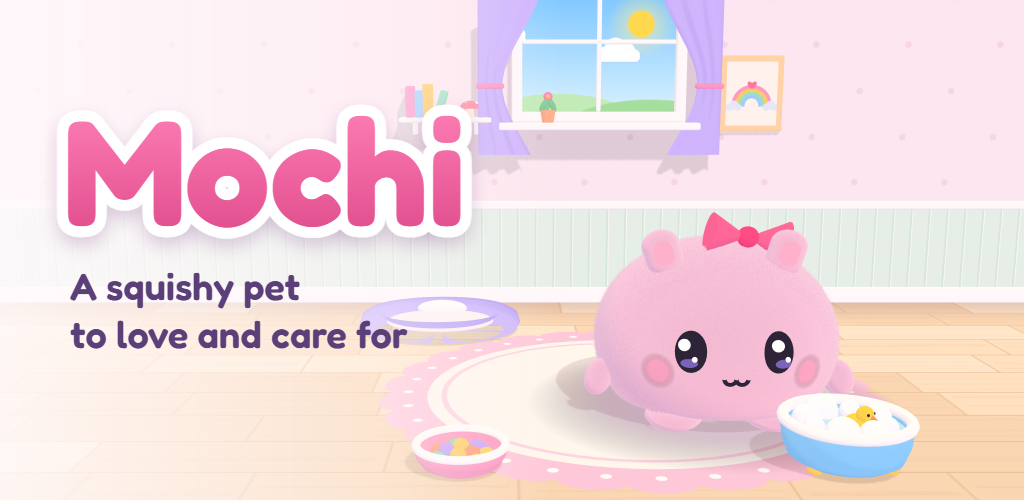
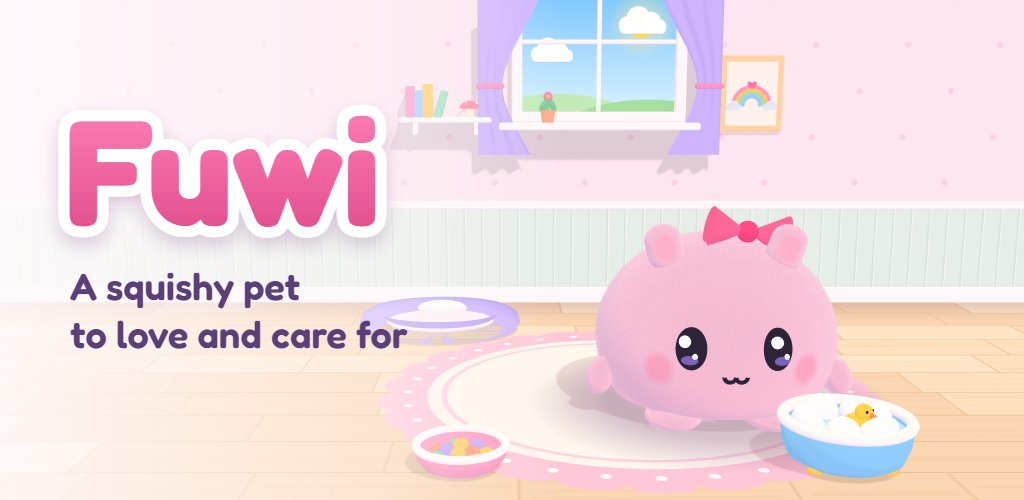
Web de Fuwi en fuwiapp.com
El personaje pasa a llamarse Fuwi («Fuwi es un mochi»): textos, título,
imágenes para compartir y direcciones en español e inglés.

diff --git a/en/index.html b/en/index.html
@@ -3,22 +3,23 @@
 <head>
   <meta charset="utf-8">
   <meta name="viewport" content="width=device-width, initial-scale=1">
-  <title>Mochi: the virtual pet with no ads</title>
-  <meta name="description" content="Mochi is a 3D virtual pet for little ones: care for it, cuddle it and talk to it. No ads, no purchases and no internet needed. Try it before anyone else on Android.">
+  <title>Fuwi: the virtual pet with no ads</title>
+  <meta name="description" content="Fuwi is a mochi, a 3D virtual pet for little ones: care for it, cuddle it and talk to it. No ads, no purchases and no internet needed. Try it before anyone else on Android.">
   <meta name="theme-color" content="#ffe4ef">
   <link rel="icon" type="image/png" href="../img/favicon.png">
-  <link rel="alternate" hreflang="es" href="https://akrogs.github.io/mochi-web/">
-  <link rel="alternate" hreflang="en" href="https://akrogs.github.io/mochi-web/en/">
+  <link rel="alternate" hreflang="es" href="https://fuwiapp.com/">
+  <link rel="alternate" hreflang="en" href="https://fuwiapp.com/en/">
   <meta property="og:type" content="website">
-  <meta property="og:title" content="Mochi: the virtual pet with no ads">
+  <meta property="og:title" content="Fuwi: the virtual pet with no ads">
   <meta property="og:description" content="Care for it, cuddle it and talk to it. Try it before anyone else on Android.">
-  <meta property="og:url" content="https://akrogs.github.io/mochi-web/en/">
-  <meta property="og:image" content="https://akrogs.github.io/mochi-web/img/compartir-en.png">
+  <meta property="og:url" content="https://fuwiapp.com/en/">
+  <link rel="canonical" href="https://fuwiapp.com/en/">
+  <meta property="og:image" content="https://fuwiapp.com/img/compartir-en.png">
   <link rel="stylesheet" href="../style.css">
 </head>
 <body>
   <header class="wrap top">
-    <a class="brand" href="./"><img src="../img/icono.png" alt="" width="48" height="48">Mochi</a>
+    <a class="brand" href="./"><img src="../img/icono.png" alt="" width="48" height="48">Fuwi</a>
     <a class="lang" href="../" lang="es" hreflang="es">Español</a>
   </header>
 
@@ -27,10 +28,10 @@
       <div>
         <p class="tag">In testing · Android only</p>
         <h1>The virtual pet with no ads</h1>
-        <p class="lead">Mochi is a 3D pet for little ones. Care for it, cuddle it and talk to it, with no purchases and no internet needed.</p>
-        <a class="button" href="#try">Try Mochi before anyone else</a>
+        <p class="lead">Fuwi is a mochi: a 3D pet for little ones. Care for it, cuddle it and talk to it, with no purchases and no internet needed.</p>
+        <a class="button" href="#try">Try Fuwi before anyone else</a>
       </div>
-      <video class="clip" src="../video/mochi-en.mp4" poster="../img/poster.webp" width="330" height="587" autoplay muted loop playsinline controls aria-label="Video of Mochi: when stroked it closes its eyes and hearts appear"></video>
+      <video class="clip" src="../video/mochi-en.mp4" poster="../img/poster.webp" width="330" height="587" autoplay muted loop playsinline controls aria-label="Video of Fuwi: when stroked it closes its eyes and hearts appear"></video>
     </div>
 
     <section class="wrap">
@@ -64,23 +65,23 @@
     </section>
 
     <section class="wrap">
-      <h2>Meet Mochi</h2>
+      <h2>Meet Fuwi</h2>
       <div class="gallery">
-        <img src="../img/en-1.webp" alt="Mochi with hearts as it is stroked" width="360" height="640">
-        <img src="../img/en-2.webp" alt="Mochi listening with the microphone on" width="360" height="640">
-        <img src="../img/en-3.webp" alt="Mochi playing with bubbles" width="360" height="640">
+        <img src="../img/en-1.webp" alt="Fuwi with hearts as it is stroked" width="360" height="640">
+        <img src="../img/en-2.webp" alt="Fuwi listening with the microphone on" width="360" height="640">
+        <img src="../img/en-3.webp" alt="Fuwi playing with bubbles" width="360" height="640">
         <img src="../img/en-4.webp" alt="Play summary in the grown-ups' area" width="360" height="640">
       </div>
     </section>
 
     <section class="wrap" id="try">
-      <h2>Try Mochi before anyone else</h2>
-      <p class="intro">Mochi is still in testing and we're looking for families who'd like to try it. You need an Android phone or tablet and a Google account belonging to an adult. There's no iPhone version yet.</p>
+      <h2>Try Fuwi before anyone else</h2>
+      <p class="intro">Fuwi is still in testing and we're looking for families who'd like to try it. You need an Android phone or tablet and a Google account belonging to an adult. There's no iPhone version yet.</p>
       <ol class="steps">
         <li>
           <div>
             <h3>Join the group</h3>
-            <p>Join the Mochi families group with your Google account.</p>
+            <p>Join the Fuwi families group with your Google account.</p>
           </div>
           <a class="button" href="https://groups.google.com/g/mochi-fams">Join the group</a>
         </li>
@@ -93,8 +94,8 @@
         </li>
         <li>
           <div>
-            <h3>Install Mochi</h3>
-            <p>Download it from Google Play. It can take a few minutes to appear.</p>
+            <h3>Install Fuwi</h3>
+            <p>Download it from Google Play. It can take a few minutes to appear. For now, Play still shows it under its old name, “Mochi”.</p>
           </div>
           <a class="button" href="https://play.google.com/store/apps/details?id=com.akrogslabs.mochi">Open Google Play</a>
         </li>
@@ -105,7 +106,7 @@
       </div>
       <div class="note">
         <h3>Your data</h3>
-        <p>When you join the group, Akrogs Labs can see your email address. We only use it for this test and delete it when the test ends, or sooner if you ask. Mochi doesn't collect data about your child, and this site uses no cookies or analytics.</p>
+        <p>When you join the group, Akrogs Labs can see your email address. We only use it for this test and delete it when the test ends, or sooner if you ask. Fuwi doesn't collect data about your child, and this site uses no cookies or analytics.</p>
       </div>
     </section>
   </main>

diff --git a/index.html b/index.html
@@ -3,22 +3,23 @@
 <head>
   <meta charset="utf-8">
   <meta name="viewport" content="width=device-width, initial-scale=1">
-  <title>Mochi: la mascota virtual sin anuncios</title>
-  <meta name="description" content="Mochi es una mascota virtual en 3D para peques: la cuidas, la acaricias y te escucha. Sin anuncios, sin compras y sin internet. Pruébala antes que nadie en Android.">
+  <title>Fuwi: la mascota virtual sin anuncios</title>
+  <meta name="description" content="Fuwi es un mochi, una mascota virtual en 3D para peques: la cuidas, la acaricias y te escucha. Sin anuncios, sin compras y sin internet. Pruébala antes que nadie en Android.">
   <meta name="theme-color" content="#ffe4ef">
   <link rel="icon" type="image/png" href="img/favicon.png">
-  <link rel="alternate" hreflang="en" href="https://akrogs.github.io/mochi-web/en/">
-  <link rel="alternate" hreflang="es" href="https://akrogs.github.io/mochi-web/">
+  <link rel="alternate" hreflang="en" href="https://fuwiapp.com/en/">
+  <link rel="alternate" hreflang="es" href="https://fuwiapp.com/">
   <meta property="og:type" content="website">
-  <meta property="og:title" content="Mochi: la mascota virtual sin anuncios">
+  <meta property="og:title" content="Fuwi: la mascota virtual sin anuncios">
   <meta property="og:description" content="La cuidas, la acaricias y te escucha. Pruébala antes que nadie en Android.">
-  <meta property="og:url" content="https://akrogs.github.io/mochi-web/">
-  <meta property="og:image" content="https://akrogs.github.io/mochi-web/img/compartir-es.png">
+  <meta property="og:url" content="https://fuwiapp.com/">
+  <link rel="canonical" href="https://fuwiapp.com/">
+  <meta property="og:image" content="https://fuwiapp.com/img/compartir-es.png">
   <link rel="stylesheet" href="style.css">
 </head>
 <body>
   <header class="wrap top">
-    <a class="brand" href="./"><img src="img/icono.png" alt="" width="48" height="48">Mochi</a>
+    <a class="brand" href="./"><img src="img/icono.png" alt="" width="48" height="48">Fuwi</a>
     <a class="lang" href="en/" lang="en" hreflang="en">English</a>
   </header>
 
@@ -27,10 +28,10 @@
       <div>
         <p class="tag">En pruebas · Solo Android</p>
         <h1>La mascota virtual sin anuncios</h1>
-        <p class="lead">Mochi es una mascota en 3D para peques. La cuidas, la acaricias y te escucha, sin compras y sin internet.</p>
-        <a class="button" href="#probar">Probar Mochi antes que nadie</a>
+        <p class="lead">Fuwi es un mochi: una mascota en 3D para peques. La cuidas, la acaricias y te escucha, sin compras y sin internet.</p>
+        <a class="button" href="#probar">Probar Fuwi antes que nadie</a>
       </div>
-      <video class="clip" src="video/mochi-es.mp4" poster="img/poster.webp" width="330" height="587" autoplay muted loop playsinline controls aria-label="Vídeo de Mochi: al acariciarla cierra los ojos y salen corazones"></video>
+      <video class="clip" src="video/mochi-es.mp4" poster="img/poster.webp" width="330" height="587" autoplay muted loop playsinline controls aria-label="Vídeo de Fuwi: al acariciarla cierra los ojos y salen corazones"></video>
     </div>
 
     <section class="wrap">
@@ -64,23 +65,23 @@
     </section>
 
     <section class="wrap">
-      <h2>Así es Mochi</h2>
+      <h2>Así es Fuwi</h2>
       <div class="gallery">
-        <img src="img/es-1.webp" alt="Mochi con corazones al acariciarla" width="360" height="640">
-        <img src="img/es-2.webp" alt="Mochi escuchando con el micrófono activado" width="360" height="640">
-        <img src="img/es-3.webp" alt="Mochi jugando con burbujas" width="360" height="640">
+        <img src="img/es-1.webp" alt="Fuwi con corazones al acariciarla" width="360" height="640">
+        <img src="img/es-2.webp" alt="Fuwi escuchando con el micrófono activado" width="360" height="640">
+        <img src="img/es-3.webp" alt="Fuwi jugando con burbujas" width="360" height="640">
         <img src="img/es-4.webp" alt="Resumen de juego en la zona para adultos" width="360" height="640">
       </div>
     </section>
 
     <section class="wrap" id="probar">
-      <h2>Prueba Mochi antes que nadie</h2>
-      <p class="intro">Mochi aún está en pruebas y buscamos familias que quieran probarla. Necesitas un móvil o una tablet Android y una cuenta de Google de una persona adulta. Por ahora no hay versión para iPhone.</p>
+      <h2>Prueba Fuwi antes que nadie</h2>
+      <p class="intro">Fuwi aún está en pruebas y buscamos familias que quieran probarla. Necesitas un móvil o una tablet Android y una cuenta de Google de una persona adulta. Por ahora no hay versión para iPhone.</p>
       <ol class="steps">
         <li>
           <div>
             <h3>Únete al grupo</h3>
-            <p>Entra en el grupo de familias de Mochi con tu cuenta de Google.</p>
+            <p>Entra en el grupo de familias de Fuwi con tu cuenta de Google.</p>
           </div>
           <a class="button" href="https://groups.google.com/g/mochi-fams">Unirme al grupo</a>
         </li>
@@ -93,8 +94,8 @@
         </li>
         <li>
           <div>
-            <h3>Instala Mochi</h3>
-            <p>Descárgala desde Google Play. Puede tardar unos minutos en aparecer.</p>
+            <h3>Instala Fuwi</h3>
+            <p>Descárgala desde Google Play. Puede tardar unos minutos en aparecer. De momento, en Play sale con su nombre de antes, «Mochi».</p>
           </div>
           <a class="button" href="https://play.google.com/store/apps/details?id=com.akrogslabs.mochi">Abrir Google Play</a>
         </li>
@@ -105,7 +106,7 @@
       </div>
       <div class="note">
         <h3>Tus datos</h3>
-        <p>Al unirte al grupo, Akrogs Labs puede ver tu dirección de correo. Solo la usamos para esta prueba y la borramos al terminar o antes, si nos lo pides. Mochi no recoge datos de tu peque, y esta web no usa cookies ni estadísticas.</p>
+        <p>Al unirte al grupo, Akrogs Labs puede ver tu dirección de correo. Solo la usamos para esta prueba y la borramos al terminar o antes, si nos lo pides. Fuwi no recoge datos de tu peque, y esta web no usa cookies ni estadísticas.</p>
       </div>
     </section>
   </main>

diff --git a/README.md b/README.md
@@ -1,5 +1,5 @@
-# Mochi
+# Fuwi
 
-Web de Mochi, una mascota virtual para peques de Akrogs Labs: https://akrogs.github.io/mochi-web/
+Web de Fuwi, el mochi que te escucha: una mascota virtual para peques de Akrogs Labs. https://fuwiapp.com/
 
 La fuente Fredoka se distribuye con la licencia SIL Open Font License (`fonts/OFL.txt`).
